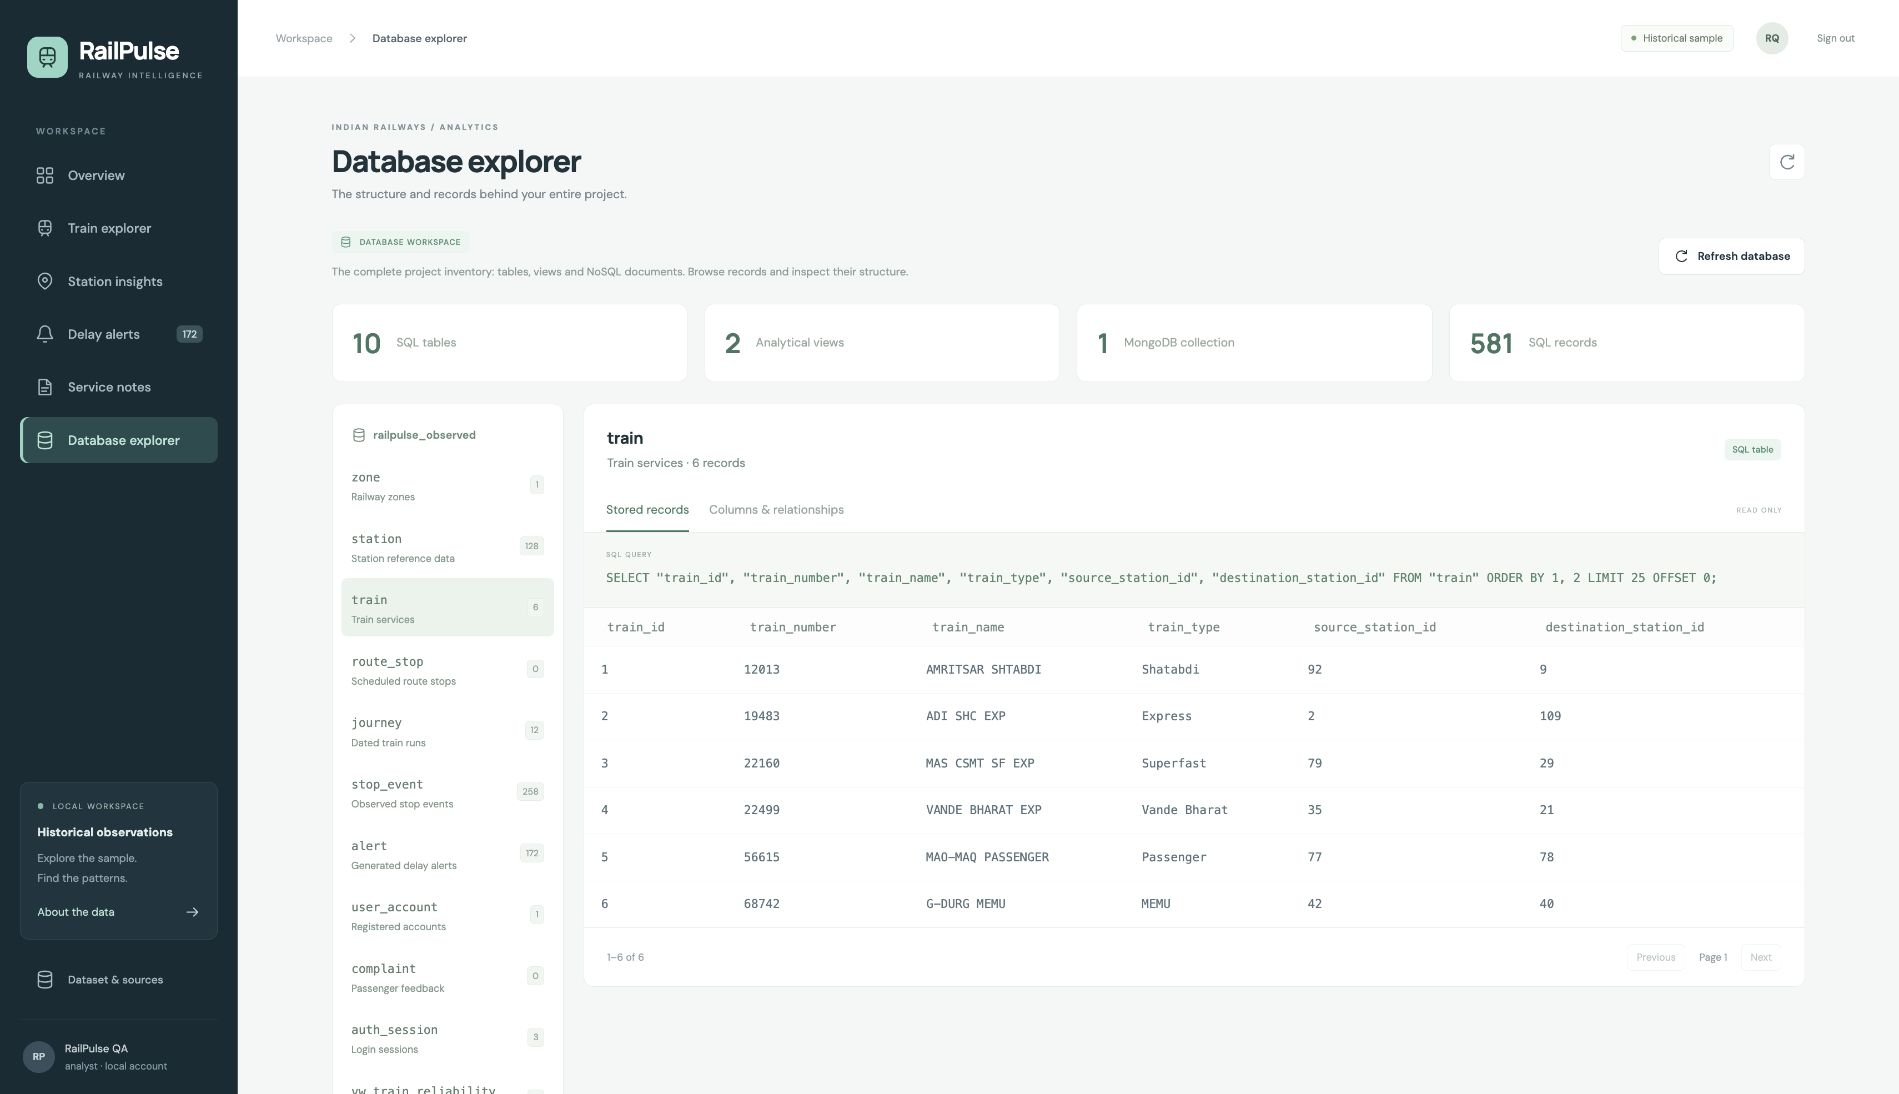
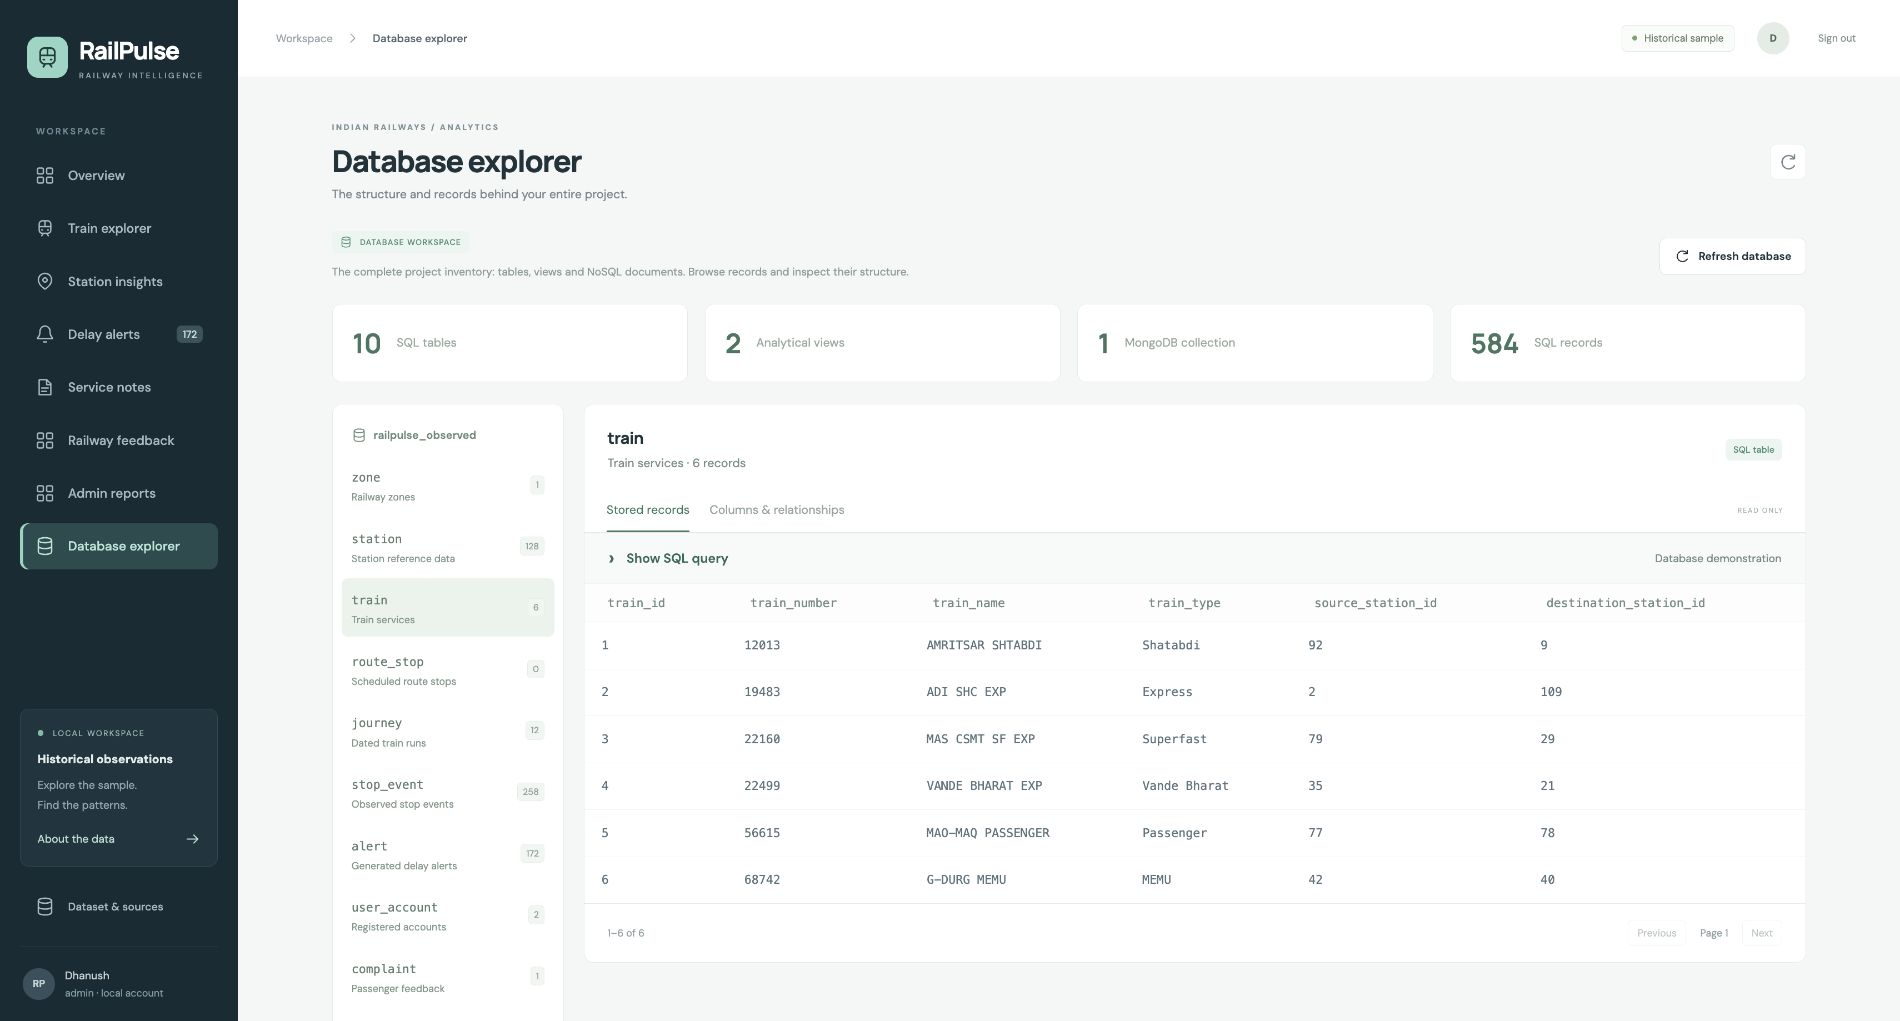
Keep query explanations collapsible for cleaner database and reports pages

diff --git a/app/components/database-explorer.tsx b/app/components/database-explorer.tsx
@@ -1,6 +1,7 @@
 'use client';
 import { useEffect,useRef,useState } from 'react';
 import Icon from './icons';
+import QueryDetails from './query-details';
 type Column={column_name:string;data_type:string;is_nullable:string;column_default:string|null};
 type Table={name:string;kind:string;count:number;columns:Column[];constraints:{name:string;type:string;definition:string}[]};
 type Catalog={tables:Table[];mongo:{connected:boolean;count:number;error?:string};database:string};
@@ -13,5 +14,5 @@ export default function DatabaseExplorer(){
  const active=catalog?.tables.find(t=>t.name===selected);
  const value=(v:unknown)=>v===null||v===undefined?<span className="null-value">NULL</span>:typeof v==='object'?JSON.stringify(v):String(v);
  function choose(name:string){setSelected(name);setPage(1);setMode('rows');}
- return <><div className="db-intro"><div><span className="pill teal"><Icon name="data" size={12}/> DATABASE WORKSPACE</span><p>The complete project inventory: tables, views and NoSQL documents. Browse records and inspect their structure.</p></div><button className="button" onClick={()=>setVersion(v=>v+1)}><Icon name="refresh" size={16}/>Refresh database</button></div>{catalogError&&<div className="error-banner" role="alert">{catalogError}</div>}<div className="db-summary"><div><strong>{catalog?.tables.filter(t=>t.kind==='table').length??'—'}</strong><span>SQL tables</span></div><div><strong>{catalog?.tables.filter(t=>t.kind==='view').length??'—'}</strong><span>Analytical views</span></div><div><strong>{catalog?.mongo.connected?'1':'—'}</strong><span>MongoDB collection</span></div><div><strong>{catalog?catalog.tables.filter(t=>t.kind==='table').reduce((a,t)=>a+t.count,0).toLocaleString():'—'}</strong><span>SQL records</span></div></div><div className="db-layout"><aside className="db-objects"><div className="db-label"><Icon name="data" size={15}/>{catalog?.database||'PostgreSQL'}</div>{catalog?.tables.map(t=><button className={selected===t.name?'selected':''} key={t.name} onClick={()=>choose(t.name)}><span><strong>{t.name}</strong><small>{descriptions[t.name]}</small></span><i>{t.count}</i></button>)}<div className="db-label mongo-label">MONGODB / RAILPULSE</div><button className={selected==='service_notes'?'selected':''} onClick={()=>choose('service_notes')}><span><strong>service_notes</strong><small>{catalog?.mongo.connected?'Document collection':'Connection unavailable'}</small></span><i>{catalog?.mongo.connected?catalog.mongo.count:'!'}</i></button></aside><section className="panel db-content"><div className="panel-heading"><div><h2>{selected}</h2><p>{descriptions[selected]} · {result?.count??'…'} records</p></div><span className="pill teal">{selected==='service_notes'?'MongoDB':active?.kind==='view'?'SQL view':'SQL table'}</span></div><div className="db-tabs"><button className={mode==='rows'?'selected':''} onClick={()=>setMode('rows')}>Stored records</button>{selected!=='service_notes'&&<button className={mode==='schema'?'selected':''} onClick={()=>setMode('schema')}>Columns & relationships</button>}<span>READ ONLY</span></div>{error?<div className="error-banner" role="alert">{error}</div>:loading?<div className="empty" role="status"><div className="loader"/><p>Reading database…</p></div>:mode==='rows'&&result?<><div className="query-preview"><span>{selected==='service_notes'?'MONGODB QUERY':'SQL QUERY'}</span><code>{result.query}</code></div>{result.rows.length?<div className="table-scroll database-table"><table><thead><tr>{result.columns.map(c=><th key={c}>{c}</th>)}</tr></thead><tbody>{result.rows.map((row,i)=><tr key={i}>{result.columns.map(c=><td key={c}><div title={typeof row[c]==='object'?JSON.stringify(row[c]):String(row[c]??'NULL')}>{value(row[c])}</div></td>)}</tr>)}</tbody></table></div>:<div className="empty"><Icon name="data" size={30}/><h3>This {selected==='service_notes'?'collection':'table'} is empty</h3><p>The structure exists. No records have been stored yet.</p></div>}<div className="pagination"><span>{result.count?`${(page-1)*25+1}–${Math.min(page*25,result.count)} of ${result.count}`:'0 records'}</span><div><button disabled={page===1} onClick={()=>setPage(p=>p-1)}>Previous</button><span>Page {page}</span><button disabled={page*25>=result.count} onClick={()=>setPage(p=>p+1)}>Next</button></div></div>{['user_account','auth_session'].includes(selected)&&<p className="protected-note">Credential fields are shown as [protected]. Password hashes and session token hashes never leave the server.</p>}</>:mode==='schema'&&active?<><div className="table-scroll"><table><thead><tr><th>Column</th><th>Type</th><th>Nullable</th><th>Default</th></tr></thead><tbody>{active.columns.map(c=><tr key={c.column_name}><td><code>{c.column_name}</code></td><td>{c.data_type}</td><td>{c.is_nullable}</td><td><code>{c.column_default||'—'}</code></td></tr>)}</tbody></table></div><div className="constraints"><h3>Keys & constraints</h3>{active.constraints.length?active.constraints.map(c=><div key={c.name}><span className="pill teal">{{p:'PRIMARY KEY',f:'FOREIGN KEY',u:'UNIQUE',c:'CHECK',n:'NOT NULL'}[c.type]||c.type}</span><code>{c.definition}</code></div>):<p>No table constraints. Views derive their data from source tables.</p>}</div></>:null}</section></div><p className="database-footnote">Counts reflect stored rows, including retained notes in trash. Analytical views are derived and are not included in the SQL record total. The explorer does not run arbitrary SQL.</p></>;
+ return <><div className="db-intro"><div><span className="pill teal"><Icon name="data" size={12}/> DATABASE WORKSPACE</span><p>The complete project inventory: tables, views and NoSQL documents. Browse records and inspect their structure.</p></div><button className="button" onClick={()=>setVersion(v=>v+1)}><Icon name="refresh" size={16}/>Refresh database</button></div>{catalogError&&<div className="error-banner" role="alert">{catalogError}</div>}<div className="db-summary"><div><strong>{catalog?.tables.filter(t=>t.kind==='table').length??'—'}</strong><span>SQL tables</span></div><div><strong>{catalog?.tables.filter(t=>t.kind==='view').length??'—'}</strong><span>Analytical views</span></div><div><strong>{catalog?.mongo.connected?'1':'—'}</strong><span>MongoDB collection</span></div><div><strong>{catalog?catalog.tables.filter(t=>t.kind==='table').reduce((a,t)=>a+t.count,0).toLocaleString():'—'}</strong><span>SQL records</span></div></div><div className="db-layout"><aside className="db-objects"><div className="db-label"><Icon name="data" size={15}/>{catalog?.database||'PostgreSQL'}</div>{catalog?.tables.map(t=><button className={selected===t.name?'selected':''} key={t.name} onClick={()=>choose(t.name)}><span><strong>{t.name}</strong><small>{descriptions[t.name]}</small></span><i>{t.count}</i></button>)}<div className="db-label mongo-label">MONGODB / RAILPULSE</div><button className={selected==='service_notes'?'selected':''} onClick={()=>choose('service_notes')}><span><strong>service_notes</strong><small>{catalog?.mongo.connected?'Document collection':'Connection unavailable'}</small></span><i>{catalog?.mongo.connected?catalog.mongo.count:'!'}</i></button></aside><section className="panel db-content"><div className="panel-heading"><div><h2>{selected}</h2><p>{descriptions[selected]} · {result?.count??'…'} records</p></div><span className="pill teal">{selected==='service_notes'?'MongoDB':active?.kind==='view'?'SQL view':'SQL table'}</span></div><div className="db-tabs"><button className={mode==='rows'?'selected':''} onClick={()=>setMode('rows')}>Stored records</button>{selected!=='service_notes'&&<button className={mode==='schema'?'selected':''} onClick={()=>setMode('schema')}>Columns & relationships</button>}<span>READ ONLY</span></div>{error?<div className="error-banner" role="alert">{error}</div>:loading?<div className="empty" role="status"><div className="loader"/><p>Reading database…</p></div>:mode==='rows'&&result?<><QueryDetails key={selected} query={result.query} label={selected==='service_notes'?'MongoDB query':'SQL query'}/>{result.rows.length?<div className="table-scroll database-table"><table><thead><tr>{result.columns.map(c=><th key={c}>{c}</th>)}</tr></thead><tbody>{result.rows.map((row,i)=><tr key={i}>{result.columns.map(c=><td key={c}><div title={typeof row[c]==='object'?JSON.stringify(row[c]):String(row[c]??'NULL')}>{value(row[c])}</div></td>)}</tr>)}</tbody></table></div>:<div className="empty"><Icon name="data" size={30}/><h3>This {selected==='service_notes'?'collection':'table'} is empty</h3><p>The structure exists. No records have been stored yet.</p></div>}<div className="pagination"><span>{result.count?`${(page-1)*25+1}–${Math.min(page*25,result.count)} of ${result.count}`:'0 records'}</span><div><button disabled={page===1} onClick={()=>setPage(p=>p-1)}>Previous</button><span>Page {page}</span><button disabled={page*25>=result.count} onClick={()=>setPage(p=>p+1)}>Next</button></div></div>{['user_account','auth_session'].includes(selected)&&<p className="protected-note">Credential fields are shown as [protected]. Password hashes and session token hashes never leave the server.</p>}</>:mode==='schema'&&active?<><div className="table-scroll"><table><thead><tr><th>Column</th><th>Type</th><th>Nullable</th><th>Default</th></tr></thead><tbody>{active.columns.map(c=><tr key={c.column_name}><td><code>{c.column_name}</code></td><td>{c.data_type}</td><td>{c.is_nullable}</td><td><code>{c.column_default||'—'}</code></td></tr>)}</tbody></table></div><div className="constraints"><h3>Keys & constraints</h3>{active.constraints.length?active.constraints.map(c=><div key={c.name}><span className="pill teal">{{p:'PRIMARY KEY',f:'FOREIGN KEY',u:'UNIQUE',c:'CHECK',n:'NOT NULL'}[c.type]||c.type}</span><code>{c.definition}</code></div>):<p>No table constraints. Views derive their data from source tables.</p>}</div></>:null}</section></div><p className="database-footnote">Counts reflect stored rows, including retained notes in trash. Analytical views are derived and are not included in the SQL record total. The explorer does not run arbitrary SQL.</p></>;
 }

diff --git a/app/components/reports.tsx b/app/components/reports.tsx
@@ -1,7 +1,8 @@
 'use client';
 import {useEffect,useState} from 'react';
+import QueryDetails from './query-details';
 type Report={ranked:Record<string,unknown>[];daily:Record<string,unknown>[];notes:Record<string,unknown>[];sql:string;pipeline:unknown[]};
 export default function Reports(){const [data,setData]=useState<Report|null>(null),[error,setError]=useState('');useEffect(()=>{fetch('/api/reports').then(async r=>{const b=await r.json();if(!r.ok)throw new Error(b.error);setData(b);}).catch(e=>setError(e.message));},[]);
- function grid(rows:Record<string,unknown>[]){return rows.length?<div className="table-scroll"><table><thead><tr>{Object.keys(rows[0]).map(k=><th key={k}>{k}</th>)}</tr></thead><tbody>{rows.map((r,i)=><tr key={i}>{Object.values(r).map((v,j)=><td key={j}>{Array.isArray(v)?v.join(', '):String(v??'—')}</td>)}</tr>)}</tbody></table></div>:<p className="feedback-empty">No matching records.</p>;}
- return error?<div role="alert">{error}</div>:!data?<p>Loading administrator reports…</p>:<><section className="panel"><div className="panel-heading"><div><h2>Services above the sample average</h2><p>JOIN, GROUP BY, HAVING, aggregate, subquery and ORDER BY.</p></div></div>{grid(data.ranked)}<pre className="report-query">{data.sql}</pre></section><section className="panel"><div className="panel-heading"><h2>Stored function: daily delay report</h2></div>{grid(data.daily)}<pre className="report-query">SELECT t.train_number, r.* FROM train t CROSS JOIN LATERAL sp_train_delay_report(t.train_id) r;</pre></section><section className="panel"><div className="panel-heading"><h2>MongoDB aggregation: active notes by category</h2></div>{grid(data.notes)}<pre className="report-query">{JSON.stringify(data.pipeline,null,2)}</pre></section></>;
+ function grid(rows:Record<string,unknown>[]){return rows.length?<div className="table-scroll"><table><thead><tr>{Object.keys(rows[0]).map(k=><th key={k}>{{train_number:'Train number',train_name:'Train name',observed_stops:'Observed stops',avg_delay:'Average delay (min)',journey_date:'Journey date',max_delay:'Maximum delay (min)',_id:'Category',notes:'Active notes',trains:'Train numbers'}[k]||k}</th>)}</tr></thead><tbody>{rows.map((r,i)=><tr key={i}>{Object.values(r).map((v,j)=><td key={j}>{Array.isArray(v)?v.join(', '):String(v??'—')}</td>)}</tr>)}</tbody></table></div>:<p className="feedback-empty">No matching records.</p>;}
+ return error?<div role="alert">{error}</div>:!data?<p>Loading administrator reports…</p>:<><section className="panel"><div className="panel-heading"><div><h2>Services above the sample average</h2><p>Train services whose average stop delay is higher than the overall sample average.</p></div></div>{grid(data.ranked)}<QueryDetails query={data.sql} label="SQL query"/></section><section className="panel"><div className="panel-heading"><h2>Daily delay by train</h2></div>{grid(data.daily)}<QueryDetails query="SELECT t.train_number, r.journey_date::text, r.avg_delay, r.max_delay FROM train t CROSS JOIN LATERAL sp_train_delay_report(t.train_id) r ORDER BY t.train_number, r.journey_date;" label="stored function query"/></section><section className="panel"><div className="panel-heading"><h2>Active service notes by category</h2></div>{grid(data.notes)}<QueryDetails query={JSON.stringify(data.pipeline,null,2)} label="MongoDB query"/></section></>;
 }

diff --git a/app/style.css b/app/style.css
@@ -14,3 +14,5 @@
 .metric>p{font-size:11px;color:#788c87}.panel-heading p{font-size:12px;color:#788e8b}.bar-row{font-size:12px}.bar-row small{font-size:10px;color:#7e928e}.bar-row strong{font-size:12px}.chart-foot,.chart-foot small{font-size:10px;color:#7c928a}.donut-legend>div,.donut-legend strong{font-size:12px}.donut-legend small{font-size:10px}.donut>div>span{font-size:11px}th{font-size:11px;color:#738b83}td{font-size:12px}.train-link>strong{font-size:12px}.train-link>small,.subtext{font-size:10px;color:#7b928a}.train-number,.service-chip{font-size:10px}.progress-value{font-size:12px}.delay{font-size:12px}.text-button{font-size:12px}.db-objects strong{font-size:12px}.db-objects small{font-size:10px;color:#80988a}.db-label{font-size:11px}.db-content code,.database-table td,.database-table th{font-size:12px}.db-tabs button{font-size:12px}.query-preview code{font-size:12px}.db-summary span{font-size:12px}.login-form-wrap>p{font-size:14px;color:#7c9385}.login-form-wrap label{font-size:13px}.login-form-wrap input{font-size:14px;padding:14px}.login-submit{font-size:14px}.switch-auth,.switch-auth button{font-size:12px!important}.auth-db-note strong{font-size:12px}.auth-db-note small{font-size:11px}.workspace-footer{font-size:10px;color:#859b90}.login-footer{font-size:10px}.story-copy>p{font-size:15px}.protected-note,.database-footnote{font-size:11px;color:#7e9486}
 
 .feedback-form form{padding:24px;display:grid;gap:16px}.feedback-form label{display:grid;gap:7px;font-size:13px;font-weight:600}.feedback-form select,.feedback-form textarea{padding:12px;border:1px solid var(--border,#dbe5e7);border-radius:8px;font:inherit;background:white}.feedback-form textarea{min-height:110px;resize:vertical}.feedback-item{padding:22px;border-top:1px solid #e5ecee}.feedback-item p{white-space:pre-wrap;overflow-wrap:anywhere}.feedback-item button{margin:8px 8px 0 0}.feedback-empty{padding:24px}.report-query{padding:20px;background:#eef4f4;white-space:pre-wrap;overflow-wrap:anywhere;font-size:12px;line-height:1.6}
+
+.query-details{border-top:1px solid #e1e9e8;background:#f7faf9}.query-details summary{display:flex;align-items:center;gap:12px;padding:15px 24px;cursor:pointer;color:#32695e;font-size:13px;font-weight:600;list-style:none}.query-details summary::-webkit-details-marker{display:none}.query-details summary:before{content:'›';font-size:20px;line-height:1;transition:transform .15s}.query-details[open] summary:before{transform:rotate(90deg)}.query-details summary:focus-visible{outline:2px solid #338677;outline-offset:-4px}.query-details .query-hide{display:none}.query-details[open] .query-hide{display:inline}.query-details[open] .query-show{display:none}.query-hint{font-size:11px;font-weight:400;color:#748a84;margin-left:auto}.query-details pre{margin:0;padding:4px 24px 20px;white-space:pre-wrap;overflow-wrap:anywhere;font-size:12px;line-height:1.65;color:#263e43}@media(max-width:600px){.query-hint{display:none}}

diff --git a/app/components/query-details.tsx b/app/components/query-details.tsx
@@ -1,0 +1,4 @@
+'use client';
+export default function QueryDetails({query,label='query'}:{query:string;label?:string}) {
+ return <details className="query-details"><summary><span className="query-show">Show {label}</span><span className="query-hide">Hide {label}</span><span className="query-hint">Database demonstration</span></summary><pre>{query}</pre></details>;
+}

diff --git a/docs/course-requirements.md b/docs/course-requirements.md
@@ -65,3 +65,5 @@ The course SQL demo rolls back every write and drops its temporary table. The te
 5. Both show successful checks, Git history and their actual individual contributions.
 
 Do not claim live tracking, real passenger incidents from illustrative notes, automatic embeddings, production security or national reliability conclusions from this subset.
+
+Query previews are collapsed by default in Admin reports and Database Explorer. Use Show query during the demonstration to explain the SQL or MongoDB pipeline.
